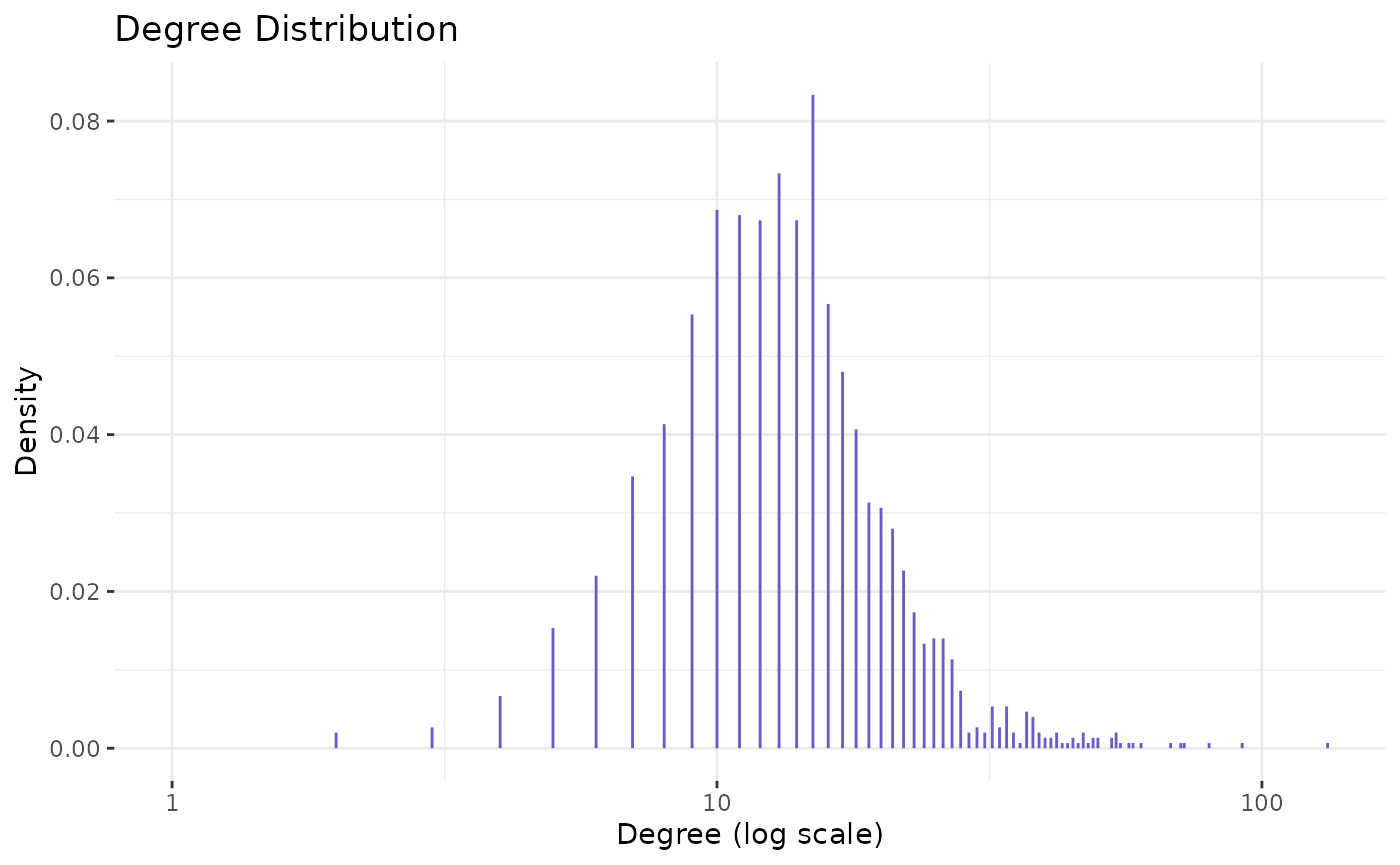
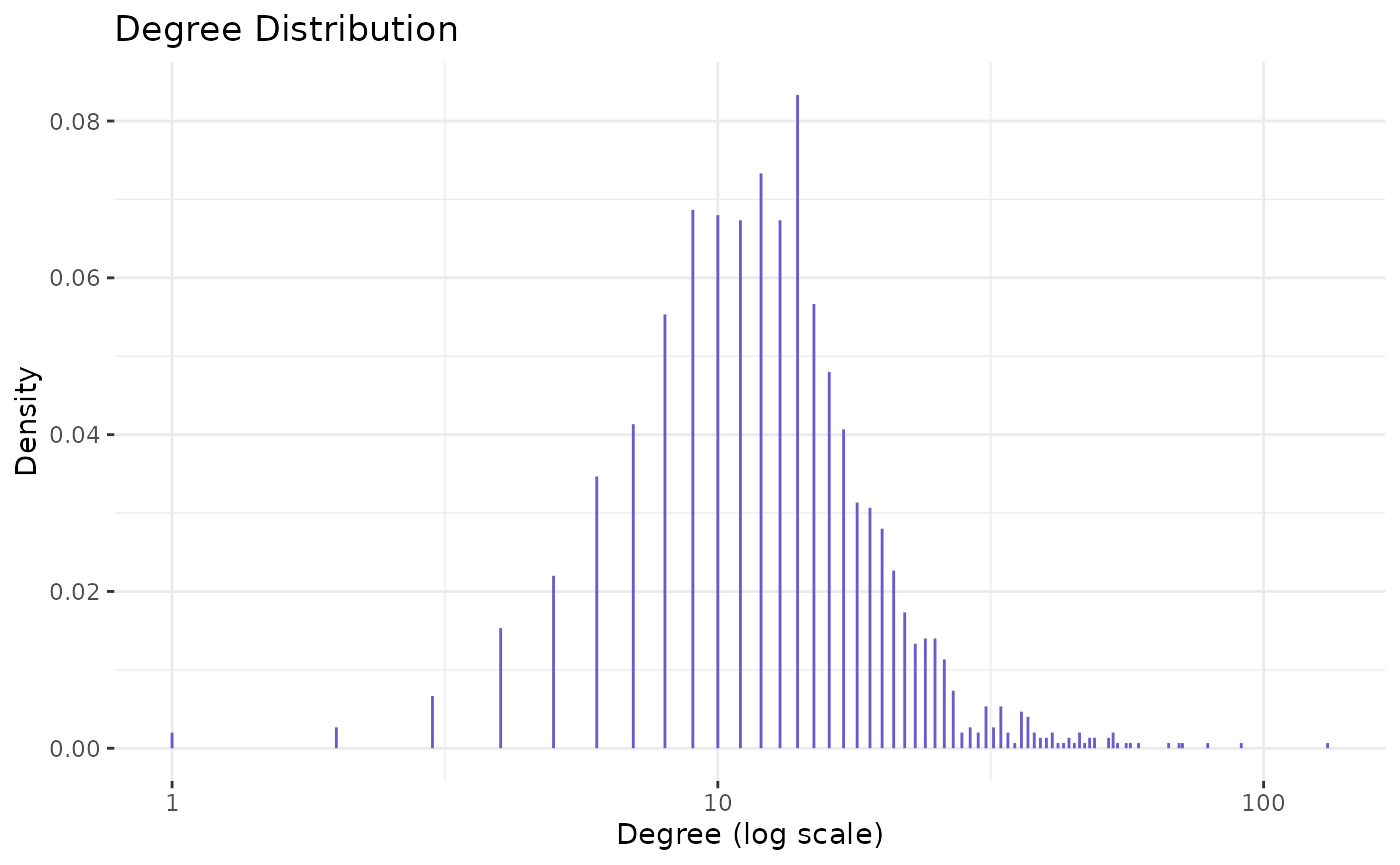
dclvm example added to Vis. vignette

Changed region(s): [[0.4914, 0.1249, 0.7986, 0.874], [0.8907, 0.9052, 0.9214, 0.9364], [0.4914, 0.9052, 0.5221, 0.9364]]

diff --git a/docs/articles/Visualization.html b/docs/articles/Visualization.html
@@ -31,7 +31,7 @@
       </button>
       <span class="navbar-brand">
         <a class="navbar-link" href="../index.html">nett</a>
-        <span class="version label label-default" data-toggle="tooltip" data-placement="bottom" title="Released version">0.0.0.9000</span>
+        <span class="version label label-default" data-toggle="tooltip" data-placement="bottom" title="Released version">0.0.0.9002</span>
       </span>
     </div>
 
@@ -82,8 +82,7 @@
     
 <div class="sourceCode" id="cb1"><pre class="downlit">
 <span class="kw"><a href="https://rdrr.io/r/base/library.html">library</a></span><span class="op">(</span><span class="va">nett</span><span class="op">)</span>
-<span class="kw"><a href="https://rdrr.io/r/base/library.html">library</a></span><span class="op">(</span><span class="va"><a href="http://igraph.org">igraph</a></span><span class="op">)</span>
-<span class="kw"><a href="https://rdrr.io/r/base/library.html">library</a></span><span class="op">(</span><span class="va"><a href="http://Matrix.R-forge.R-project.org/">Matrix</a></span><span class="op">)</span></pre></div>
+<span class="kw"><a href="https://rdrr.io/r/base/library.html">library</a></span><span class="op">(</span><span class="va"><a href="http://igraph.org">igraph</a></span><span class="op">)</span></pre></div>
 <p>In this article, we go through some of the basic visualization functionality in the <code>nett</code> package.</p>
 <div id="visualizing-a-dcsbm" class="section level2">
 <h2 class="hasAnchor">
@@ -102,11 +101,10 @@
 <span class="va">z</span> <span class="op">=</span> <span class="fu"><a href="https://rdrr.io/r/base/sample.html">sample</a></span><span class="op">(</span><span class="va">Ktru</span>, <span class="va">n</span>, replace<span class="op">=</span><span class="cn">T</span>, prob<span class="op">=</span><span class="va">pri</span><span class="op">)</span>
 
 <span class="co"># sample the adjacency matrix</span>
-<span class="va">A</span> <span class="op">=</span> <span class="fu">sample_dcsbm</span><span class="op">(</span><span class="va">z</span>, <span class="va">B</span>, <span class="va">theta</span><span class="op">)</span></pre></div>
+<span class="va">A</span> <span class="op">=</span> <span class="fu"><a href="../reference/sample_dcsbm.html">sample_dcsbm</a></span><span class="op">(</span><span class="va">z</span>, <span class="va">B</span>, <span class="va">theta</span><span class="op">)</span></pre></div>
 <p>We can plot the network using community labels <span class="math inline">\(z\)</span> to color the nodes:</p>
 <div class="sourceCode" id="cb3"><pre class="downlit">
 <span class="va">gr</span> <span class="op">=</span> <span class="fu">igraph</span><span class="fu">::</span><span class="fu"><a href="https://rdrr.io/pkg/igraph/man/graph_from_adjacency_matrix.html">graph_from_adjacency_matrix</a></span><span class="op">(</span><span class="va">A</span>, <span class="st">"undirected"</span><span class="op">)</span> <span class="co"># convert to igraph object </span>
-
 <span class="fu"><a href="https://rdrr.io/r/graphics/par.html">par</a></span><span class="op">(</span>mar <span class="op">=</span> <span class="fu"><a href="https://rdrr.io/r/base/c.html">c</a></span><span class="op">(</span><span class="fl">0</span>,<span class="fl">0</span>,<span class="fl">0</span>,<span class="fl">0</span><span class="op">)</span><span class="op">)</span>
 <span class="va">out</span> <span class="op">=</span> <span class="fu">nett</span><span class="fu">::</span><span class="fu"><a href="../reference/plot_net.html">plot_net</a></span><span class="op">(</span><span class="va">gr</span>, community <span class="op">=</span> <span class="va">z</span><span class="op">)</span></pre></div>
 <p><img src="Visualization_files/figure-html/unnamed-chunk-3-1.png" width="700"></p>
@@ -119,18 +117,52 @@
 <span class="co">#&gt;    Min. 1st Qu.  Median    Mean 3rd Qu.    Max. </span>
 <span class="co">#&gt;    1.00   10.00   13.00   14.81   17.00  131.00</span></pre></div>
 </div>
-<div id="comparing-with-a-real-network" class="section level2">
+<div id="a-latent-variable-model" class="section level2">
 <h2 class="hasAnchor">
-<a href="#comparing-with-a-real-network" class="anchor"></a>Comparing with a real network</h2>
-<p>Let us compare with <em>Political Blogs</em> network accessable via <code>polblogs</code>.</p>
+<a href="#a-latent-variable-model" class="anchor"></a>A latent variable model</h2>
+<p>Now consider a latent variable model with <span class="math inline">\(K\)</span> communities as follows: The adjacency matrix <span class="math inline">\(A = (A_{ij})\)</span> is generated as a symmetric matrix, with independent Bernoulli entries above the diagonal with <span class="math display">\[\begin{align}\label{eq:dclvm:def}
+    \mathbb E [\,A_{ij} \mid x, \theta\,] \; \propto \; \theta_i \theta_j e^{- \|x_i - x_j\|^2} \quad  \text{and}         \quad
+    x_i = 2 e_{z_i} + \frac34 w_i
+\end{align}\]</span> where <span class="math inline">\(e_k\)</span> is the <span class="math inline">\(k\)</span>th basis vector of <span class="math inline">\(\mathbb R^d\)</span>, <span class="math inline">\(w_i \sim N(0, I_d)\)</span>, <span class="math inline">\(\{z_i\} \subset [K]^n\)</span> are multinomial labels (similar to the DCSBM labels) and <span class="math inline">\(d = K\)</span>. The proportionality constant in~ is chosen such that the overall network has expected average degree <span class="math inline">\(\lambda\)</span></p>
+<p>We can generate from this model using the <code><a href="../reference/sample_dclvm.html">nett::sample_dclvm()</a></code> function as follows:</p>
 <div class="sourceCode" id="cb6"><pre class="downlit">
+<span class="va">d</span> <span class="op">=</span> <span class="va">Ktru</span>
+<span class="va">labels</span> <span class="op">=</span> <span class="fu"><a href="https://rdrr.io/r/base/sample.html">sample</a></span><span class="op">(</span><span class="va">Ktru</span>, <span class="va">n</span>, replace <span class="op">=</span> <span class="cn">T</span>, prob <span class="op">=</span> <span class="va">pri</span><span class="op">)</span>
+<span class="va">labels</span> <span class="op">=</span> <span class="fu"><a href="https://rdrr.io/r/base/sort.html">sort</a></span><span class="op">(</span><span class="va">labels</span><span class="op">)</span>
+<span class="va">mu</span> <span class="op">=</span> <span class="fu"><a href="https://rdrr.io/r/base/diag.html">diag</a></span><span class="op">(</span><span class="va">Ktru</span><span class="op">)</span>
+<span class="va">x</span> <span class="op">=</span> <span class="fl">2</span><span class="op">*</span><span class="va">mu</span><span class="op">[</span><span class="va">labels</span>, <span class="op">]</span> <span class="op">+</span> <span class="fl">0.75</span><span class="op">*</span><span class="fu"><a href="https://rdrr.io/r/base/matrix.html">matrix</a></span><span class="op">(</span><span class="fu"><a href="https://rdrr.io/r/stats/Normal.html">rnorm</a></span><span class="op">(</span><span class="va">n</span><span class="op">*</span><span class="va">d</span><span class="op">)</span>, <span class="va">n</span><span class="op">)</span>
+
+<span class="va">A</span> <span class="op">=</span> <span class="fu"><a href="../reference/sample_dclvm.html">sample_dclvm</a></span><span class="op">(</span><span class="va">x</span>, <span class="va">lambda</span>, <span class="va">theta</span><span class="op">)</span></pre></div>
+<p>Visualizing the network and its degree distribution goes as before:</p>
+<div class="sourceCode" id="cb7"><pre class="downlit">
+<span class="va">gr</span> <span class="op">=</span> <span class="fu">igraph</span><span class="fu">::</span><span class="fu"><a href="https://rdrr.io/pkg/igraph/man/graph_from_adjacency_matrix.html">graph_from_adjacency_matrix</a></span><span class="op">(</span><span class="va">A</span>, <span class="st">"undirected"</span><span class="op">)</span> <span class="co"># convert to igraph object </span>
+<span class="fu"><a href="https://rdrr.io/r/graphics/par.html">par</a></span><span class="op">(</span>mar <span class="op">=</span> <span class="fu"><a href="https://rdrr.io/r/base/c.html">c</a></span><span class="op">(</span><span class="fl">0</span>,<span class="fl">0</span>,<span class="fl">0</span>,<span class="fl">0</span><span class="op">)</span><span class="op">)</span>
+<span class="va">out</span> <span class="op">=</span> <span class="fu">nett</span><span class="fu">::</span><span class="fu"><a href="../reference/plot_net.html">plot_net</a></span><span class="op">(</span><span class="va">gr</span>, community <span class="op">=</span> <span class="va">labels</span><span class="op">)</span></pre></div>
+<p><img src="Visualization_files/figure-html/unnamed-chunk-6-1.png" width="700"></p>
+<div class="sourceCode" id="cb8"><pre class="downlit">
+<span class="fu">nett</span><span class="fu">::</span><span class="fu"><a href="../reference/plot_deg_dist.html">plot_deg_dist</a></span><span class="op">(</span><span class="va">gr</span><span class="op">)</span>
+<span class="co">#&gt; Warning in nett::plot_deg_dist(gr): There are 0-degree nodes. Omitting them on</span>
+<span class="co">#&gt; log scale.</span></pre></div>
+<p><img src="Visualization_files/figure-html/unnamed-chunk-7-1.png" width="700"></p>
+<div class="sourceCode" id="cb9"><pre class="downlit">
+<span class="fu"><a href="https://rdrr.io/r/base/summary.html">summary</a></span><span class="op">(</span><span class="fu">igraph</span><span class="fu">::</span><span class="fu"><a href="https://rdrr.io/pkg/igraph/man/degree.html">degree</a></span><span class="op">(</span><span class="va">out</span><span class="op">$</span><span class="va">gr</span><span class="op">)</span><span class="op">)</span>
+<span class="co">#&gt;    Min. 1st Qu.  Median    Mean 3rd Qu.    Max. </span>
+<span class="co">#&gt;    1.00    6.00   11.00   13.61   18.00  198.00</span></pre></div>
+</div>
+<div id="visualizing-political-blogs-network" class="section level2">
+<h2 class="hasAnchor">
+<a href="#visualizing-political-blogs-network" class="anchor"></a>Visualizing <em>Political Blogs</em> network</h2>
+<p>Let us compare with <em>Political Blogs</em> network accessable via <code>polblogs</code>.</p>
+<div class="sourceCode" id="cb10"><pre class="downlit">
 <span class="fu"><a href="https://rdrr.io/r/graphics/par.html">par</a></span><span class="op">(</span>mar <span class="op">=</span> <span class="fu"><a href="https://rdrr.io/r/base/c.html">c</a></span><span class="op">(</span><span class="fl">0</span>,<span class="fl">0</span>,<span class="fl">0</span>,<span class="fl">0</span><span class="op">)</span><span class="op">)</span>
 <span class="va">out</span> <span class="op">=</span> <span class="fu">nett</span><span class="fu">::</span><span class="fu"><a href="../reference/plot_net.html">plot_net</a></span><span class="op">(</span><span class="va">polblogs</span>, community <span class="op">=</span> <span class="fu">igraph</span><span class="fu">::</span><span class="fu"><a href="https://rdrr.io/pkg/igraph/man/V.html">V</a></span><span class="op">(</span><span class="va">polblogs</span><span class="op">)</span><span class="op">$</span><span class="va">community</span><span class="op">)</span></pre></div>
-<p><img src="Visualization_files/figure-html/unnamed-chunk-5-1.png" width="700"></p>
-<div class="sourceCode" id="cb7"><pre class="downlit">
-<span class="fu">nett</span><span class="fu">::</span><span class="fu"><a href="../reference/plot_deg_dist.html">plot_deg_dist</a></span><span class="op">(</span><span class="va">polblogs</span><span class="op">)</span></pre></div>
-<p><img src="Visualization_files/figure-html/unnamed-chunk-5-2.png" width="700"></p>
-<div class="sourceCode" id="cb8"><pre class="downlit">
+<p><img src="Visualization_files/figure-html/unnamed-chunk-8-1.png" width="700"></p>
+<div class="sourceCode" id="cb11"><pre class="downlit">
+<span class="fu">nett</span><span class="fu">::</span><span class="fu"><a href="../reference/plot_deg_dist.html">plot_deg_dist</a></span><span class="op">(</span><span class="va">polblogs</span><span class="op">)</span>
+<span class="co">#&gt; Warning in nett::plot_deg_dist(polblogs): There are 0-degree nodes. Omitting</span>
+<span class="co">#&gt; them on log scale.</span></pre></div>
+<p><img src="Visualization_files/figure-html/unnamed-chunk-9-1.png" width="700"></p>
+<div class="sourceCode" id="cb12"><pre class="downlit">
 <span class="fu"><a href="https://rdrr.io/r/base/summary.html">summary</a></span><span class="op">(</span><span class="fu">igraph</span><span class="fu">::</span><span class="fu"><a href="https://rdrr.io/pkg/igraph/man/degree.html">degree</a></span><span class="op">(</span><span class="va">polblogs</span><span class="op">)</span><span class="op">)</span>
 <span class="co">#&gt;    Min. 1st Qu.  Median    Mean 3rd Qu.    Max. </span>
 <span class="co">#&gt;    0.00    1.00    8.00   25.62   33.00  468.00</span></pre></div>
